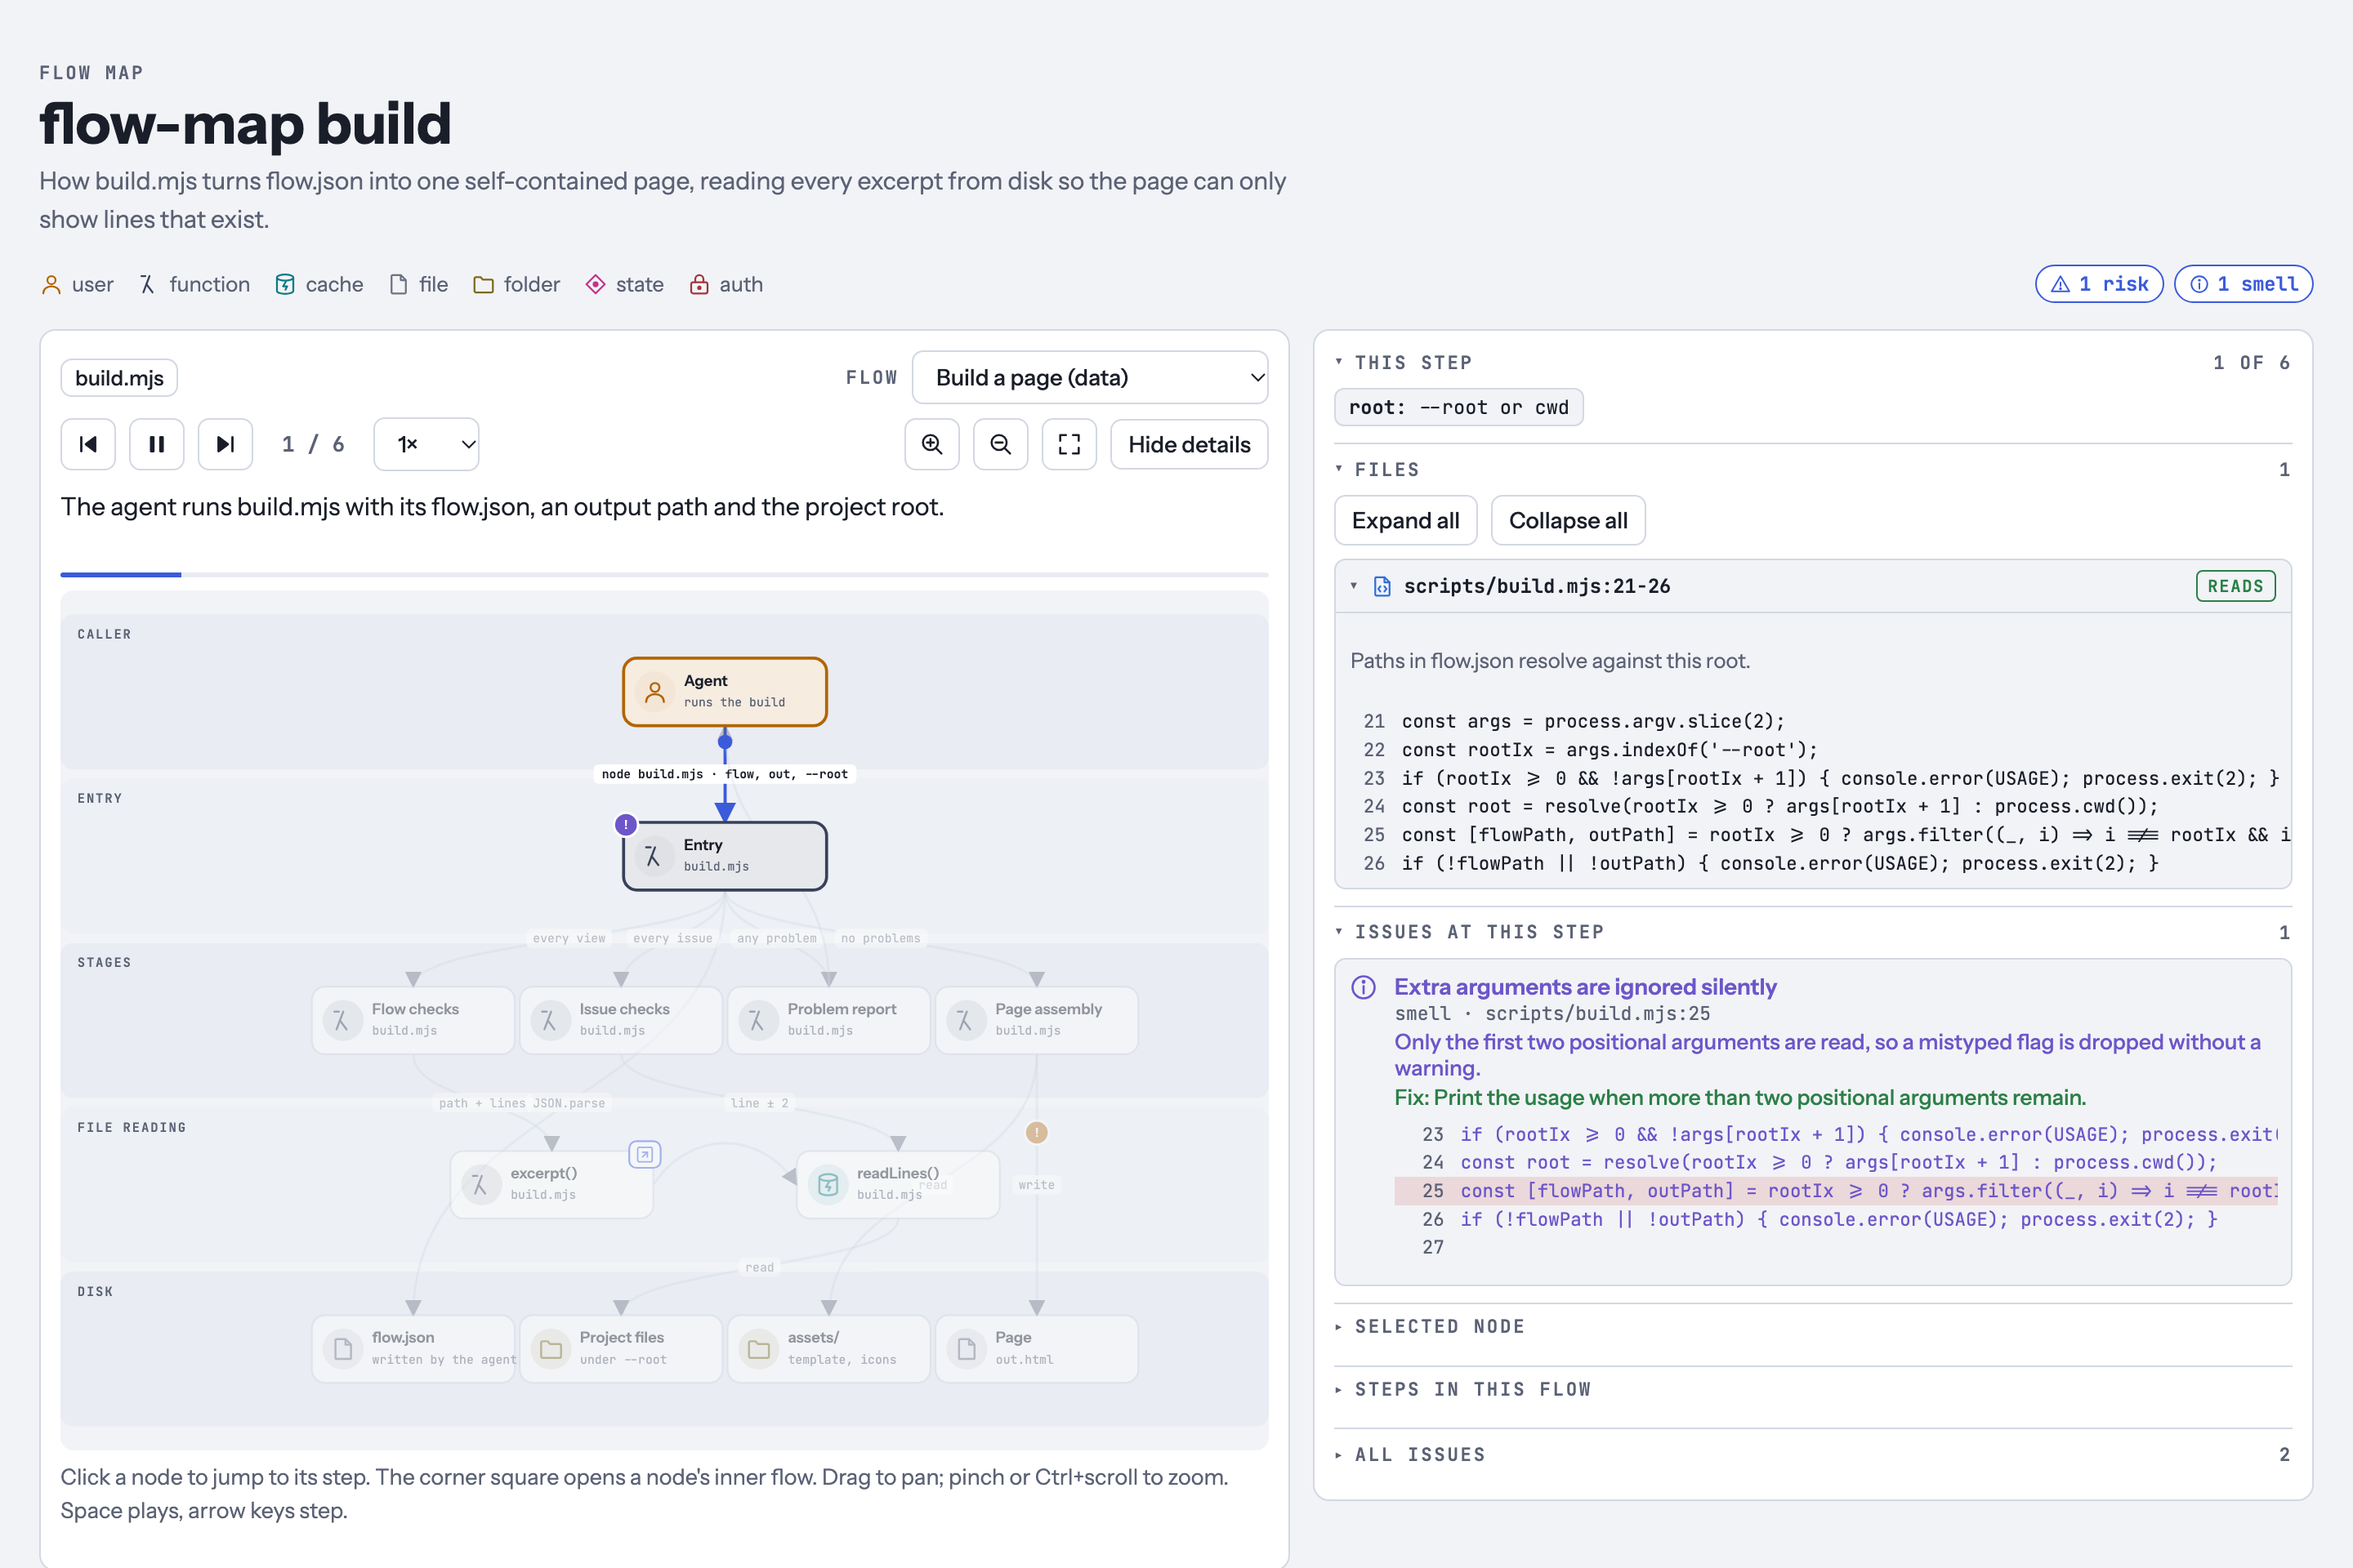
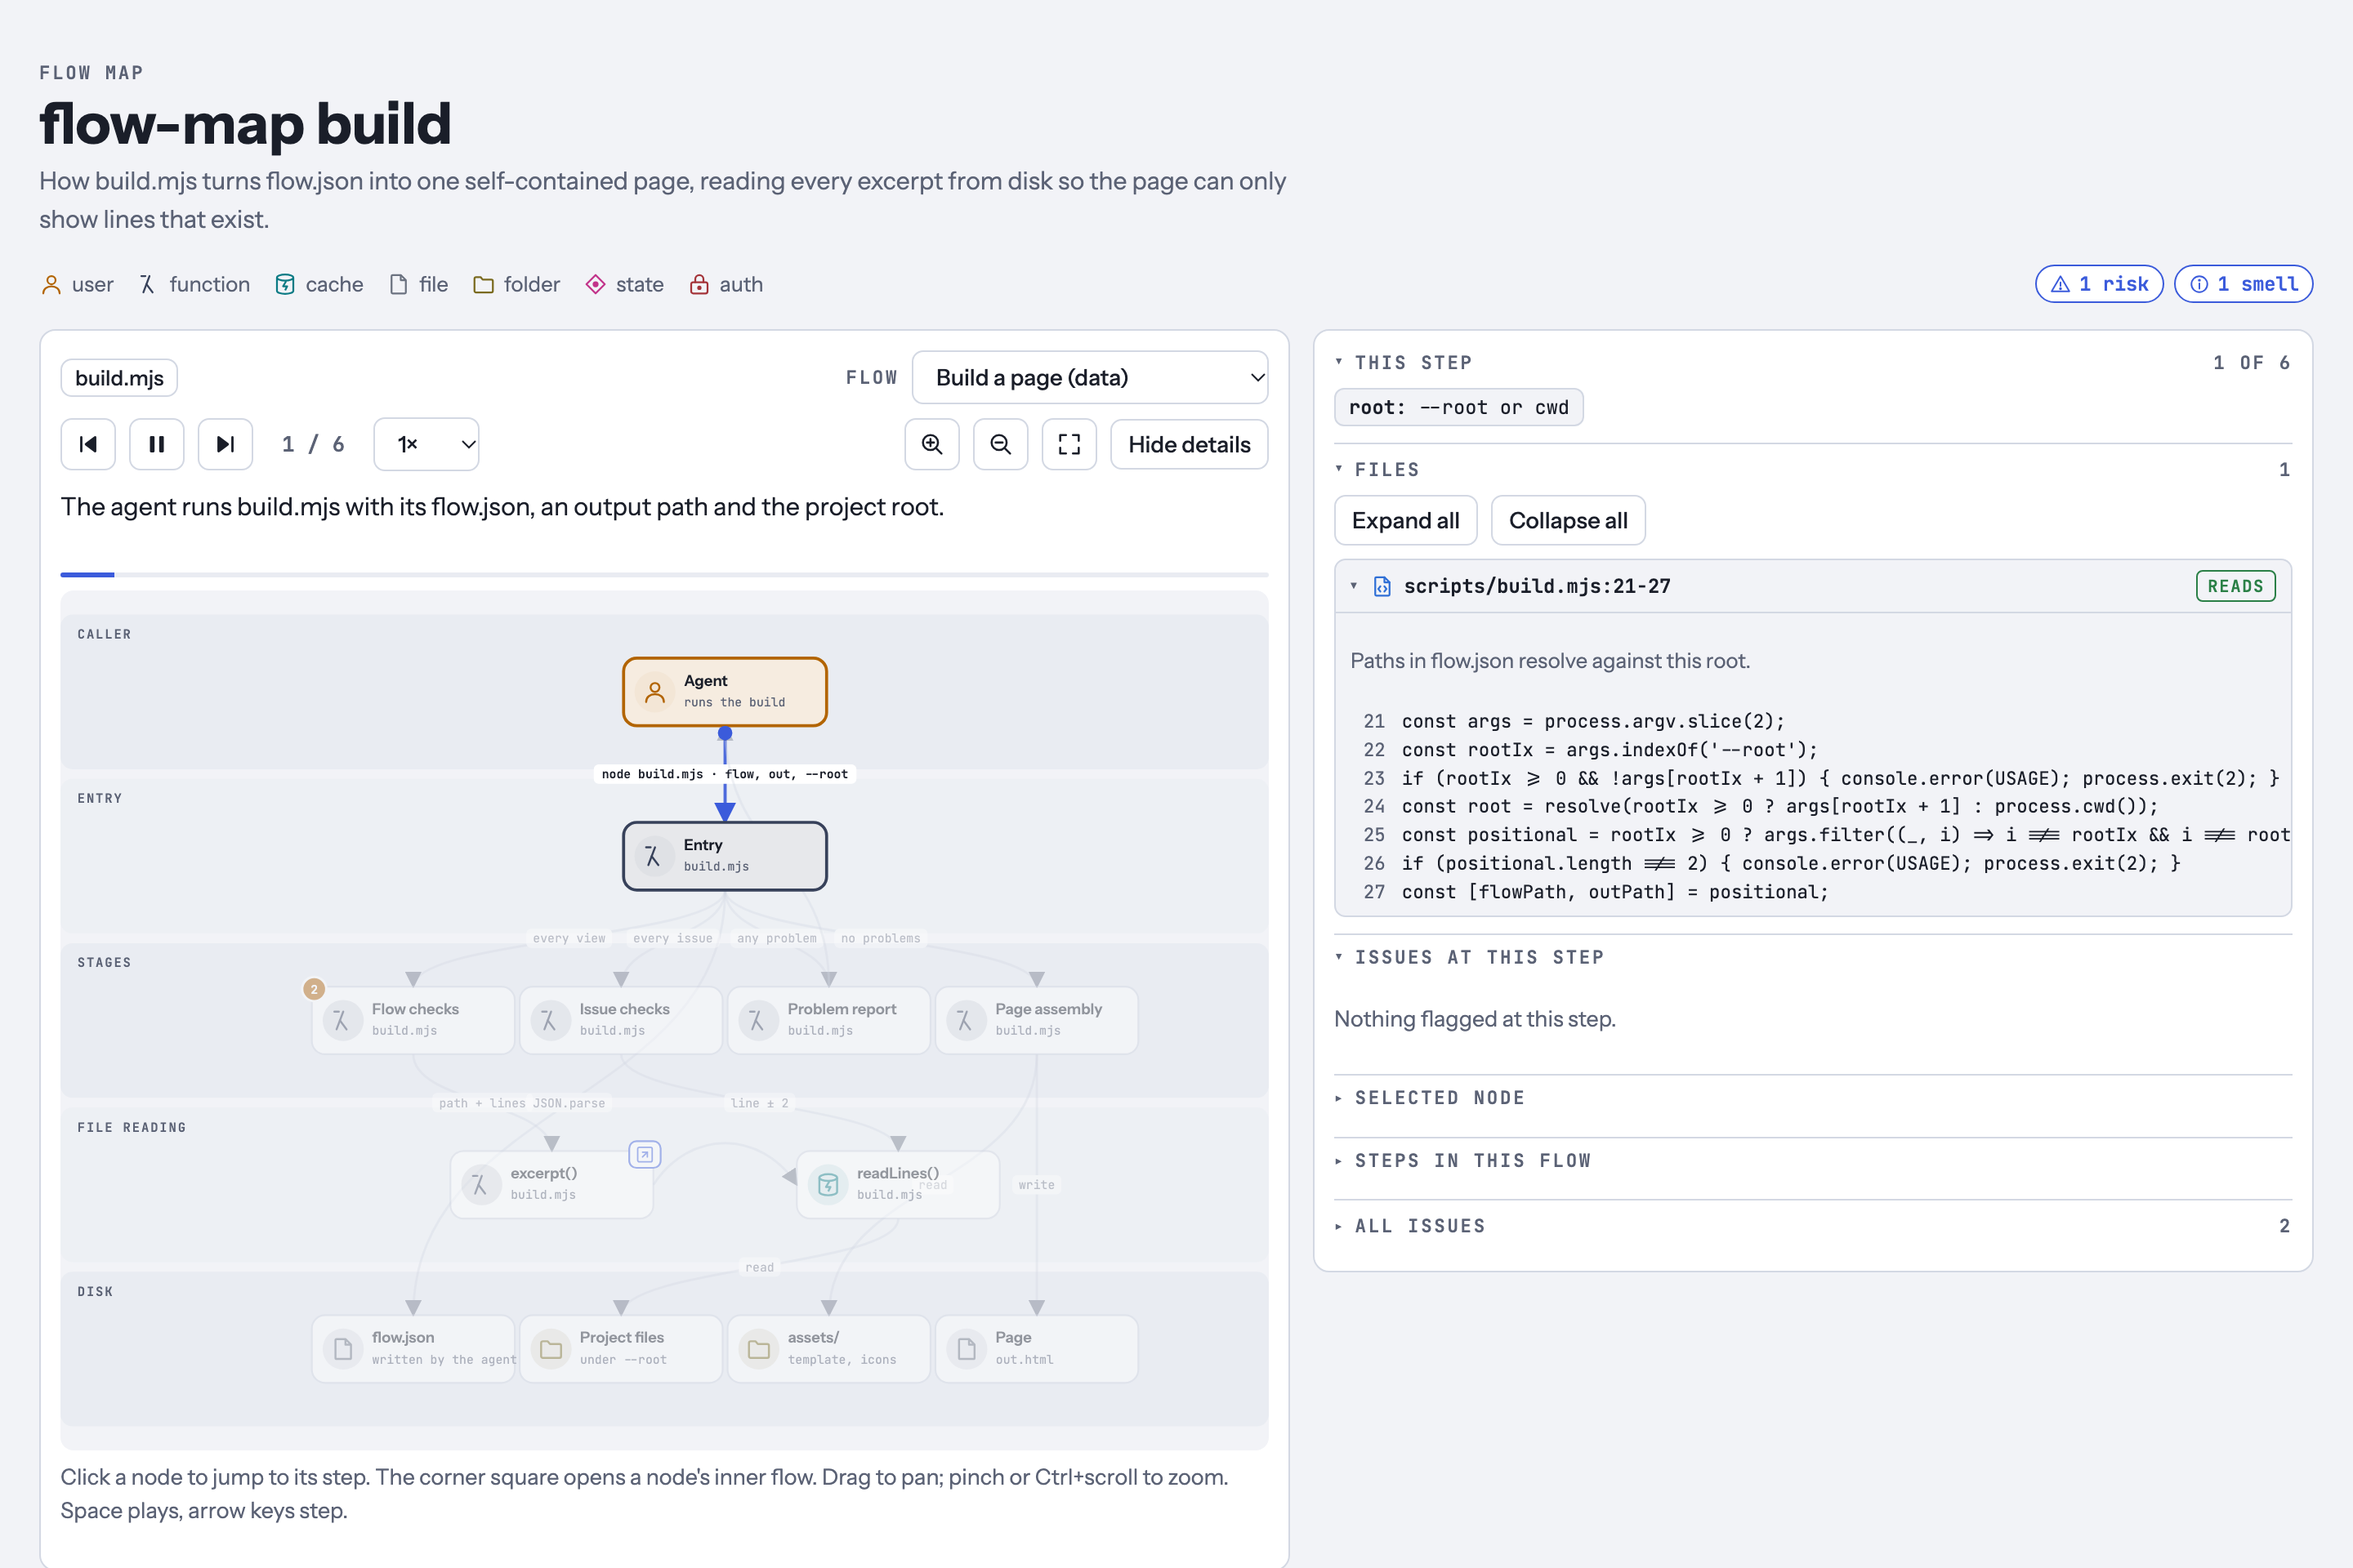
fix(flow-map): create the output folder and reject stray arguments

Changed region(s): [[0.5625, 0.5312, 0.9688, 0.8438], [0.625, 0.8438, 0.6562, 0.875], [0.5938, 0.9062, 0.625, 0.9375]]

diff --git a/skills/flow-map/references/schema.md b/skills/flow-map/references/schema.md
@@ -19,10 +19,12 @@ outside a file and excerpts over 40 lines. Paths are relative to `--root` and mu
         {
           "id": "entry", "label": "Entry", "kind": "function", "layer": "cli",
           "sub": "CLI entry",                  // optional second line; defaults to the file name
-          "file": "scripts/build.mjs", "lines": [21, 34],
-          "note": "Parses arguments and loads flow.json.",
+          "file": "scripts/build.mjs", "lines": [21, 35],
+          "note": "Takes two paths and an optional --root, then loads flow.json.",
           "drill": "excerpt"                   // optional: a view that opens from this node
-        }
+        },
+        { "id": "validate", "label": "Flow checks", "kind": "function", "layer": "cli",
+          "file": "scripts/build.mjs", "lines": [74, 112] }
       ],
       "edges": [
         { "id": "run", "from": "agent", "to": "entry", "label": "node build.mjs", "data": "flow, out, --root" }
@@ -36,7 +38,7 @@ outside a file and excerpts over 40 lines. Paths are relative to `--root` and mu
               "nodes": ["agent", "entry"], "edges": ["run"],
               "state": { "root": "--root or cwd" },                          // optional values that change
               "files": [
-                { "path": "scripts/build.mjs", "lines": [21, 26], "role": "reads",
+                { "path": "scripts/build.mjs", "lines": [21, 27], "role": "reads",
                   "note": "Paths in flow.json resolve against this root." }
               ]
             }
@@ -47,12 +49,12 @@ outside a file and excerpts over 40 lines. Paths are relative to `--root` and mu
   },
   "issues": [
     {
-      "id": "extra-args", "severity": "smell",        // bug | risk | smell | question
-      "view": "main", "node": "entry",          // or "edge": "<edge id>"
-      "file": "scripts/build.mjs", "line": 25,
-      "title": "Extra arguments are ignored silently",
-      "detail": "Only the first two positional arguments are read, so a mistyped flag is dropped without a warning.",
-      "fix": "Print the usage when more than two positional arguments remain."
+      "id": "file-without-path", "severity": "risk",  // bug | risk | smell | question
+      "view": "main", "node": "validate",       // or "edge": "<edge id>"
+      "file": "scripts/build.mjs", "line": 108,
+      "title": "A step file without a path crashes the build",
+      "detail": "excerpt() calls path.endsWith on undefined, so the build exits with a TypeError.",
+      "fix": "Fail the step when a file entry has no path."
     }
   ]
 }
